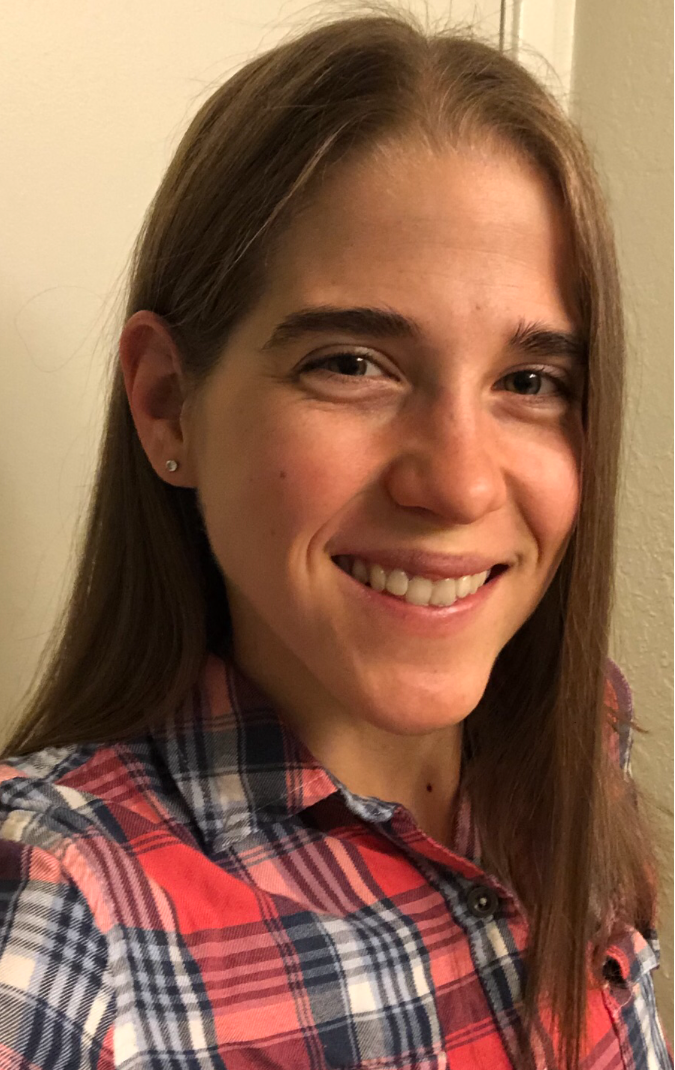
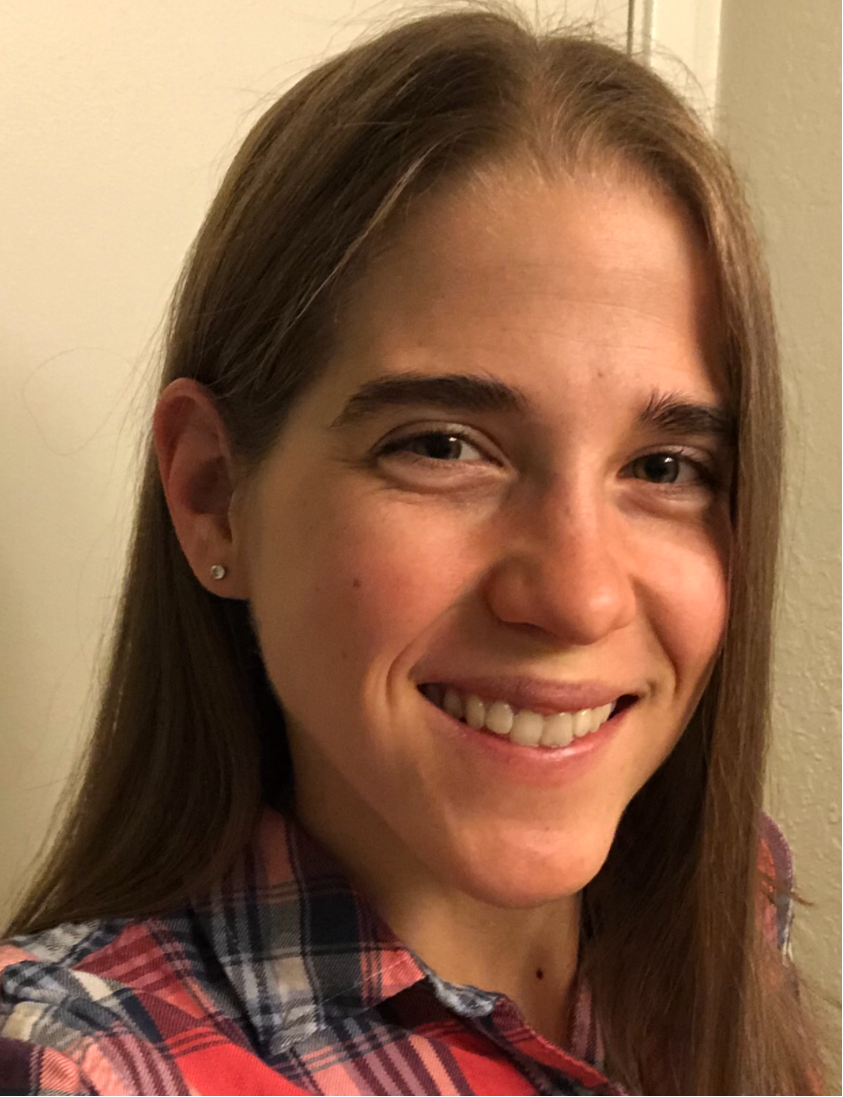
changed section headers, added new portrait photo, added border radius to my-work cards

diff --git a/index.html b/index.html
@@ -42,10 +42,14 @@
         <div class="flex-row">
             <h2>About Me</h2>
         </div>
-        <div class="flex-row">
+        <div class="flex-row flex-row2">
             <p>
                 Hello! My name is Sammi Moore, I am 25 years old, and I just recently graduated from Northern Arizona University with a Master's in Science Teaching. After realizing that I wasn't entirely interested in pursuing a job in teaching, I decided to completely change directions and learn how to code. My background is heavily focused on human anatomy and physiology, exercise physiology, metabolic pathways, and how to effectively teach science. Coding was a completely foreign concept to me, as I never took a coding course throughout my entire schooling experience. But through UofA's coding bootcamp I plan to gain the skills and knowledge required to become a proficient programmer. 
+                <br>
+                <br>
                 My goal is to eventually land a remote programming job, that will provide me with both stability and flexibility. I am still figuring out what areas of coding I want to specialize in, but once I decide I will begin to hone my skills to ensure I have a solid grasp on specific programming languages. I have been working hard to create a portfolio that will showcase the projects I have created throughout the bootcamp. Below I have provided links to all of my major projects, as well as a link to my GitHub where my various code files can be viewed. 
+                <br>
+                <br>
                 This page was created to showcase my background, work, and interests. Outside of coding I also enjoy rock climbing, biking, hiking, lifting weights, construction, and drawing. Thank you for stopping by to puruse my page, and if you have any questions or would like to contact me do not hesitate to reach out via email or phone call which can be found in the "Contact Me" section. 
             </p>
         </div>

diff --git a/assets/css/style.css b/assets/css/style.css
@@ -51,12 +51,23 @@ header nav ul li a {
 .flex-row {
     display: flex;
     justify-content: center;
-    padding: 50px;
+    padding-top: 50px;
+    padding-bottom: 10px;
+}
+
+.flex-row2 {
+    padding: 2px;
+}
+
+.flex-row2 p {
+    font-size: 20px;
 }
 
 .flex-row h2{
-    color:crimson;
+    color:darkcyan;
     font-size: 32px;
+    border-style: outset;
+    border-color: turquoise;
 }
 
 .work {
@@ -72,6 +83,7 @@ header nav ul li a {
     height: 150px;
     width: 190px;
     background-color:darkgray;
+    border-radius: 10px;
 }
 
 .card h3 {
@@ -89,6 +101,7 @@ header nav ul li a {
     top: -49px;
     height: 248px;
     width: 290px;
+    border-radius: 10px;
 }
 
 .run {
@@ -102,6 +115,7 @@ header nav ul li a {
     left: -49px;
     height: 248px;
     width: 288px;
+    border-radius: 10px;
 }
 
 .card_sm1 {
@@ -114,7 +128,7 @@ header nav ul li a {
 
 .res-link {
     text-decoration: none;
-    color: crimson;
+    color: darkcyan;
 }
 
 .contact-links ul {
